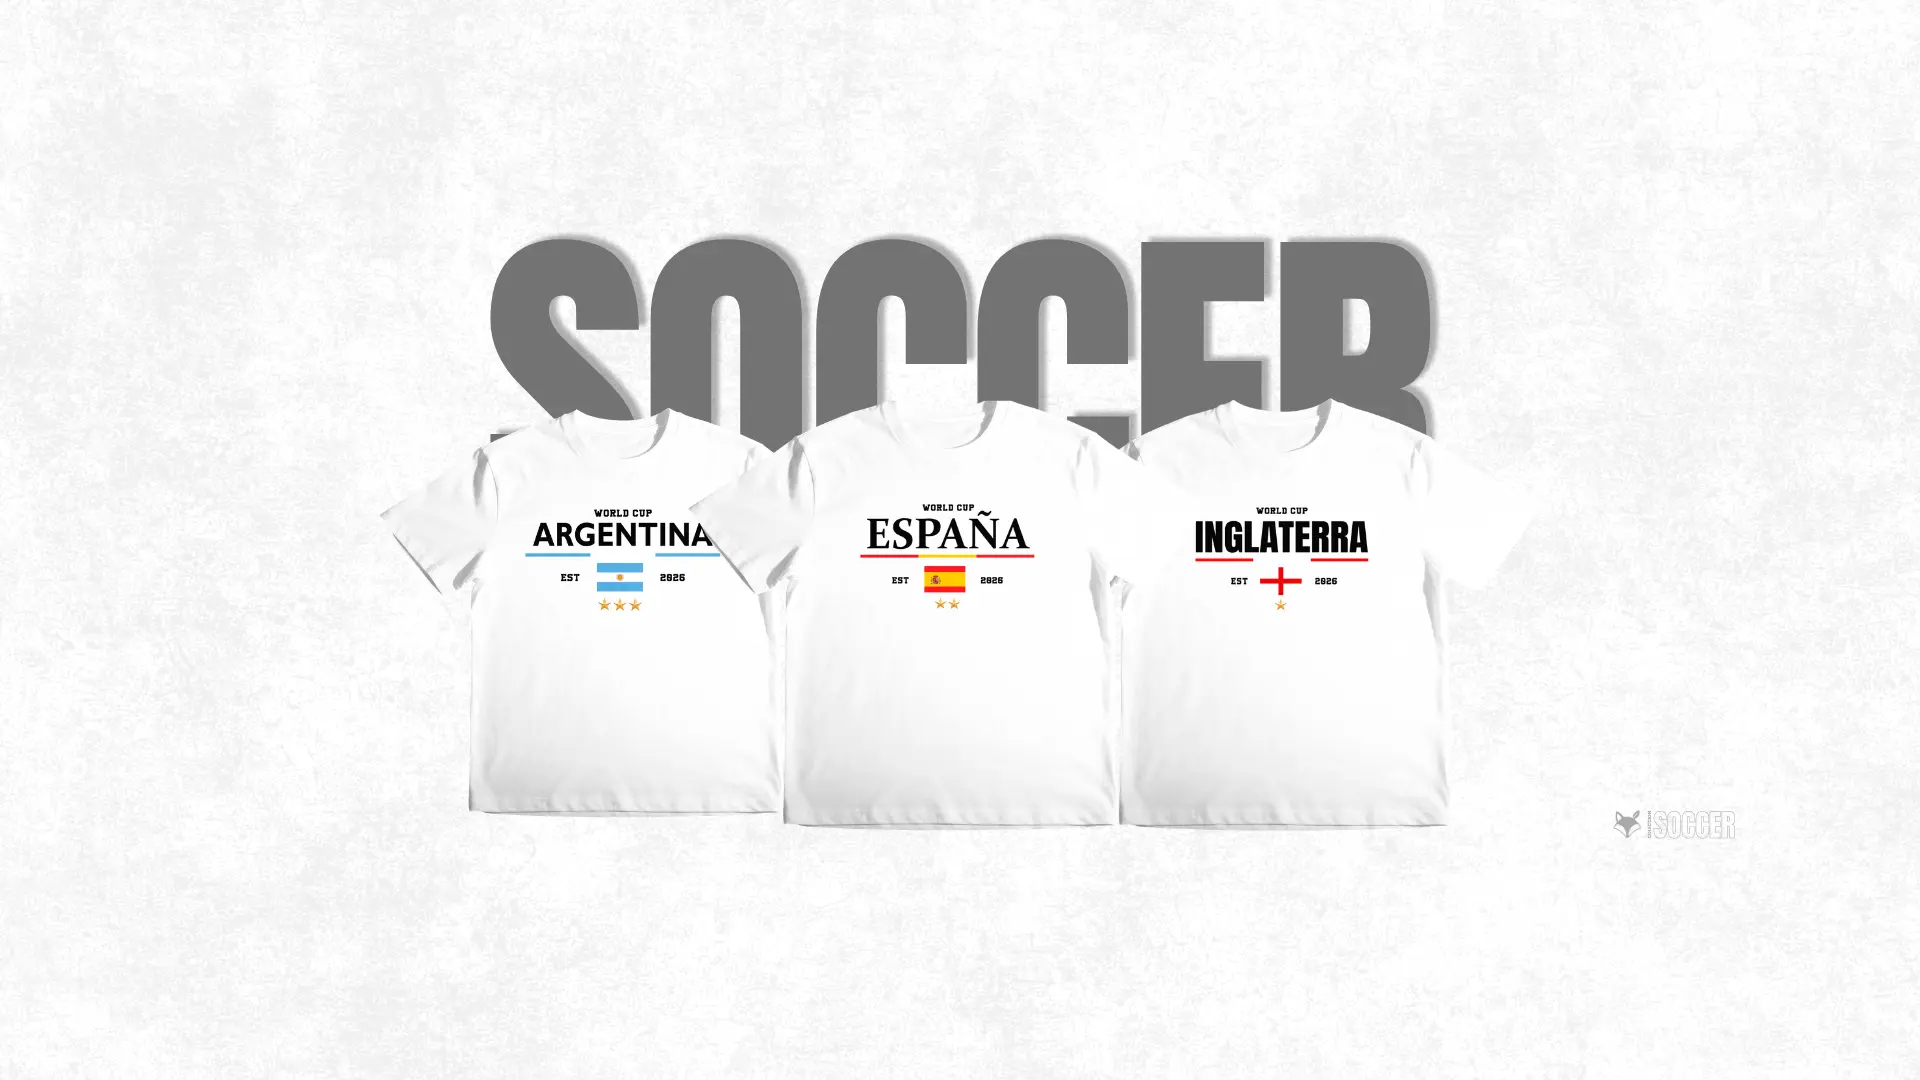
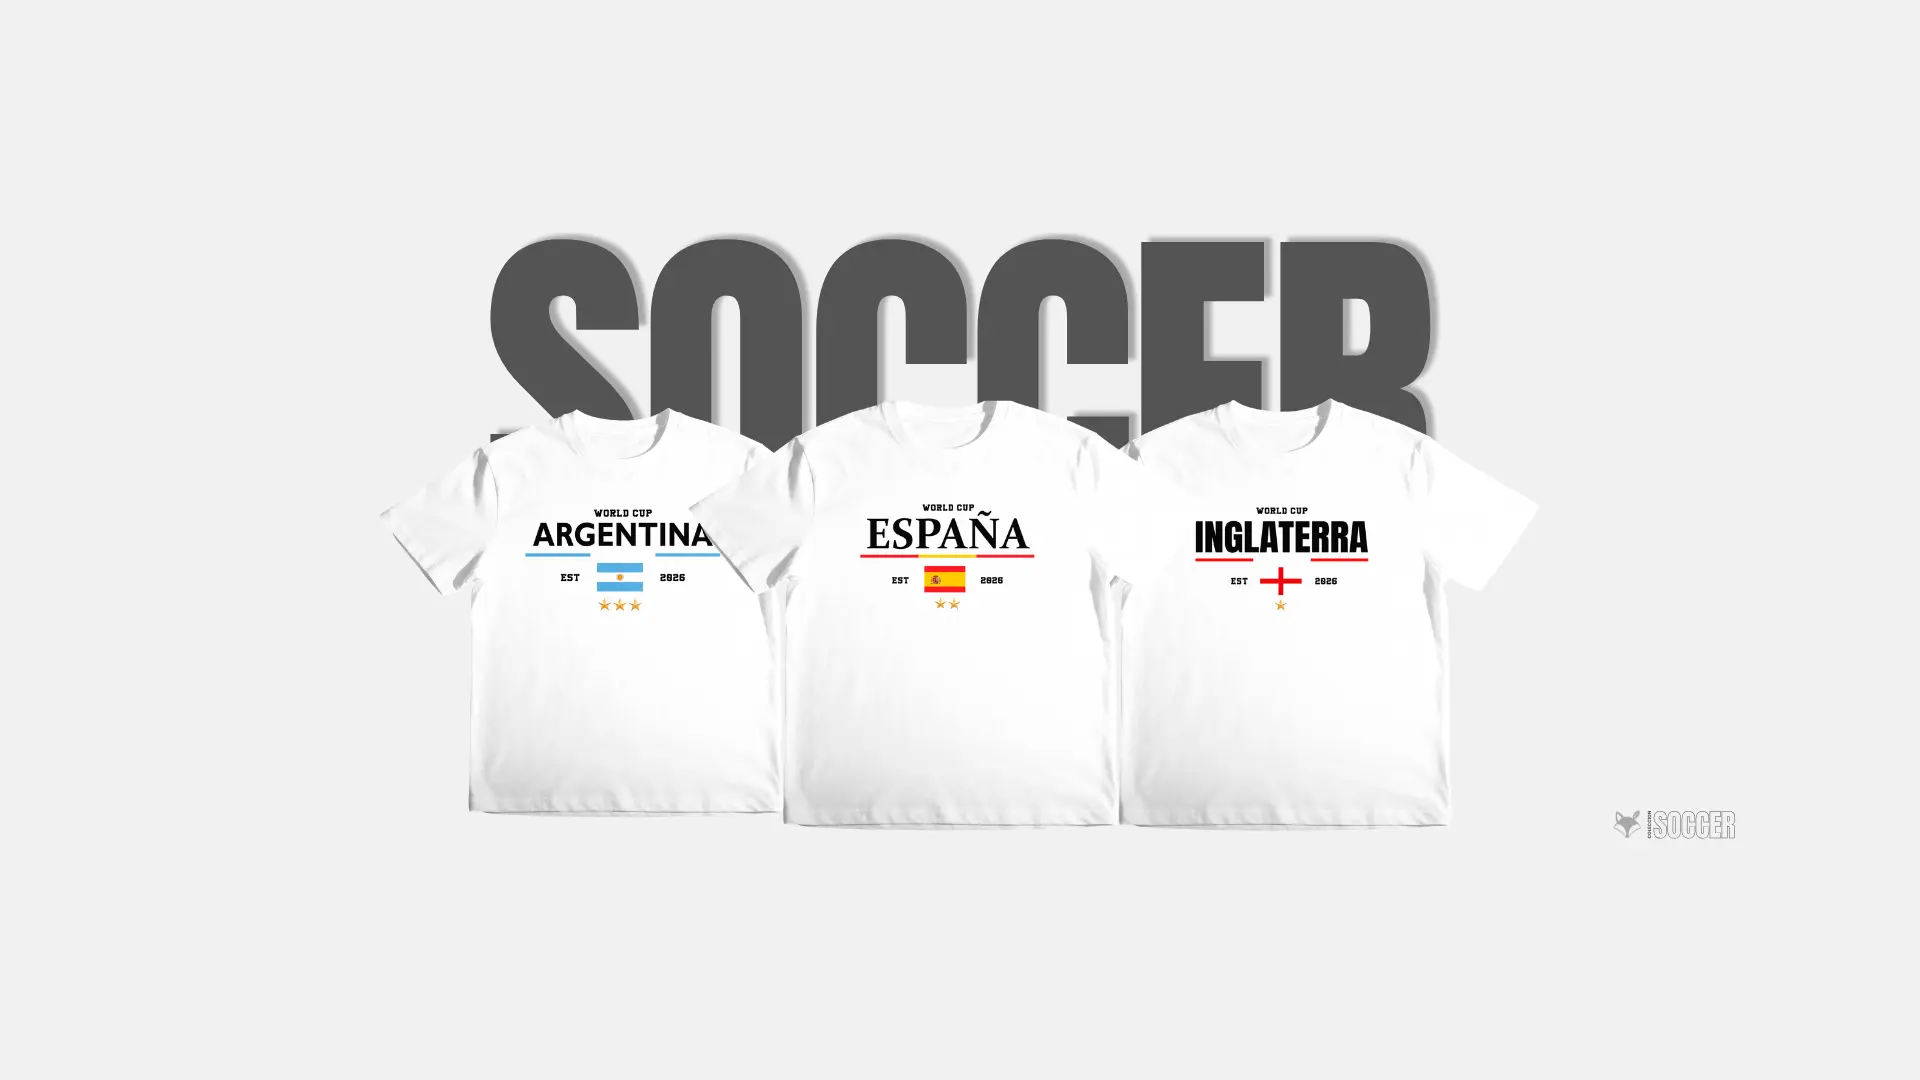
Actualizada de imagenes hero y enlaces en menu movil

Changed region(s): [[0.25, 0.2139, 0.75, 0.4278], [0.875, 0.7333, 0.9062, 0.7944]]

diff --git a/style.css b/style.css
@@ -581,7 +581,7 @@ main {
     font-size: 0.8rem;
     text-transform: uppercase;
     box-sizing: border-box;
-    
+
 }
 
 .page-header a {
@@ -850,7 +850,7 @@ footer {
     display: flex;
     gap: 40px;
     width: max-content;
-    animation: scrollInfinite 30s linear infinite;   
+    animation: scrollInfinite 30s linear infinite;
 }
 
 @keyframes scrollInfinite {
@@ -1029,7 +1029,7 @@ footer {
     margin: 0 auto 60px auto;
 }
 
-.related-section h2{
+.related-section h2 {
     font-size: 2rem;
     line-height: 2rem;
 }
@@ -1408,7 +1408,7 @@ footer {
     .hero-content {
         background-image:
             linear-gradient(rgba(0, 0, 0, 0.01), rgba(0, 0, 0, 0.02)),
-            url('assets/hero-2.png');
+            url('assets/hero-2.webp');
         padding: 1rem;
     }
 
@@ -1484,8 +1484,12 @@ footer {
         padding: 1rem;
     }
 
-   .carousel-container {
-    margin: 0px 0px 40px 0px;
-}
+    .carousel-container {
+        margin: 0px 0px 40px 0px;
+    }
+
+    .nav-links a {
+        margin-bottom: 15px;
+    }
 
 }
